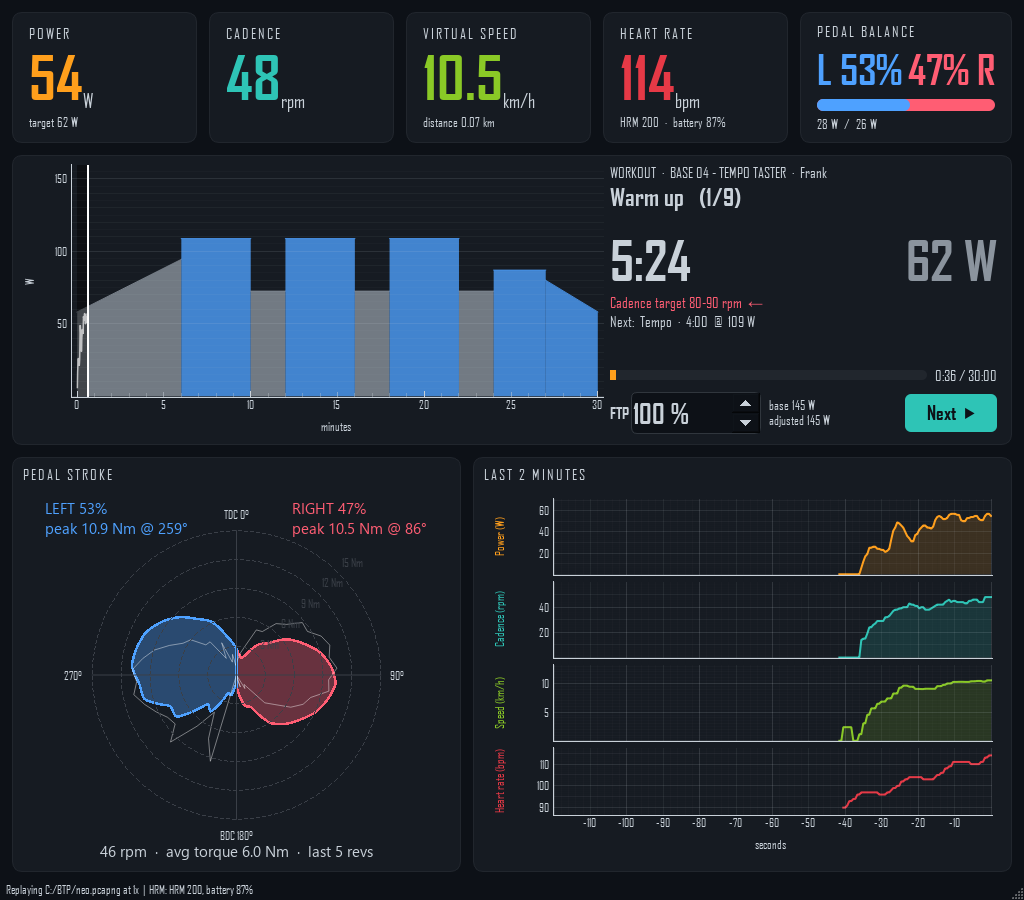
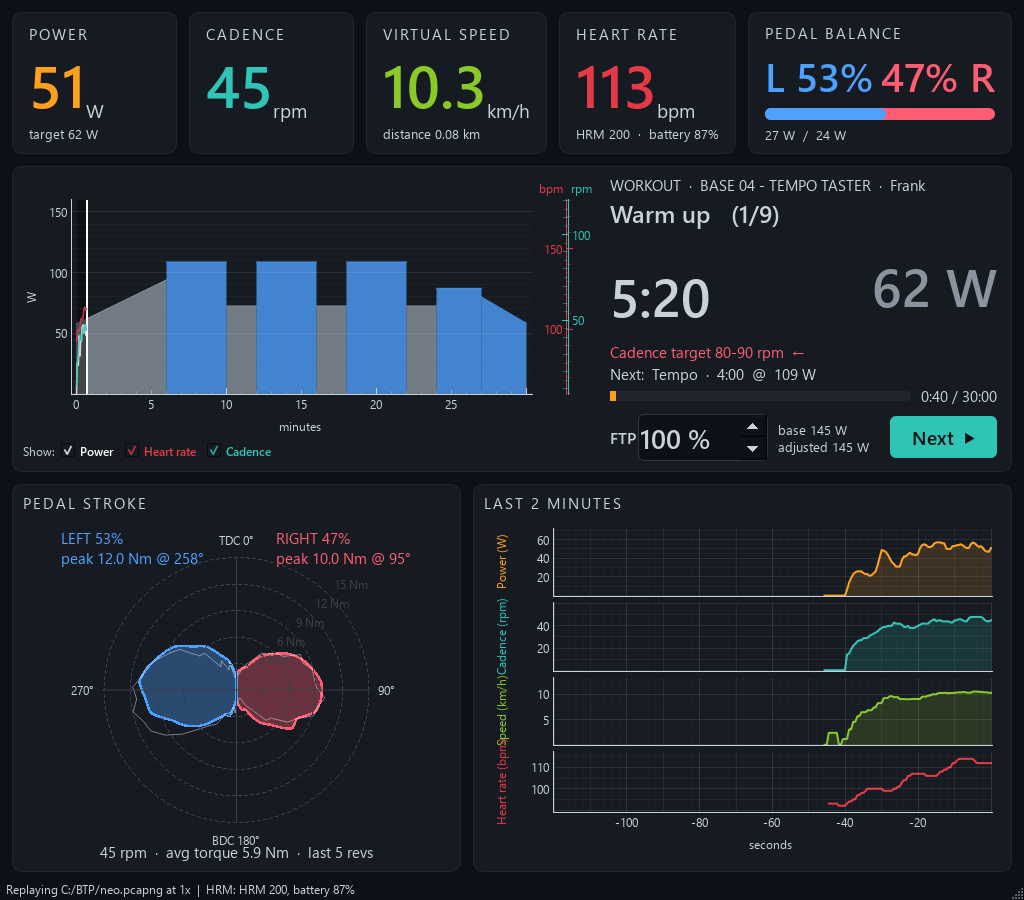
update scales.  update screenshot

diff --git a/tacx_dashboard.py b/tacx_dashboard.py
@@ -487,11 +487,12 @@ def zone_colour(watts: Optional[float], ftp: Optional[float]) -> str:
     return next(c for top, c in ZONES if pct < top)
 
 
-TRACES = {  # workout chart overlays: key -> (label, colour, trace column, axis)
-    "power": ("Power", "#ffffff", 1, "left"),
-    "hr": ("Heart rate", COL_HR, 3, "right"),
-    "cadence": ("Cadence", COL_CADENCE, 2, "right"),
+TRACES = {  # workout chart overlays: key -> (label, colour, trace column)
+    "power": ("Power", "#ffffff", 1),
+    "hr": ("Heart rate", COL_HR, 3),
+    "cadence": ("Cadence", COL_CADENCE, 2),
 }
+SCALES = {"hr": ("bpm", 60, 180), "cadence": ("rpm", 40, 120)}  # own axes: unit, default range
 PREFS_FILE = os.path.join(os.path.dirname(os.path.abspath(__file__)), ".cache", "dashboard.json")
 
 
@@ -533,45 +534,75 @@ class WorkoutProfile(pg.PlotWidget):
         self.marker.setZValue(30)
         self.addItem(self.marker)
 
-        # heart rate and cadence share a second view box with its own right-hand axis
+        # Heart rate and cadence each get their own view box and scale. Their axes sit in
+        # adjacent layout columns so the two axis lines meet: bpm labels on the left of the
+        # shared line (a "left" axis), rpm labels on the right of it (the "right" axis).
         pi = self.getPlotItem()
-        self.right_vb = pg.ViewBox(enableMouse=False)
-        self.right_vb.setZValue(25)
-        pi.showAxis("right")
-        pi.scene().addItem(self.right_vb)
-        pi.getAxis("right").linkToView(self.right_vb)
-        pi.getAxis("right").setLabel("bpm · rpm")
-        self.right_vb.setXLink(pi)
-        pi.vb.sigResized.connect(lambda: self.right_vb.setGeometry(pi.vb.sceneBoundingRect()))
+        rpm_axis = pi.getAxis("right")
+        pi.layout.removeItem(rpm_axis)
+        pi.layout.addItem(rpm_axis, 2, 3)   # row 2 is the plot row; column 2 takes bpm
+        bpm_axis = pg.AxisItem("left")
+        pi.layout.addItem(bpm_axis, 2, 2)
+        self.axes = {"hr": bpm_axis, "cadence": rpm_axis}
+        self.units = {}  # "bpm" / "rpm" written across the top of each scale
+        self.boxes = {"power": pi.vb}
+        for key, (unit, _lo, _hi) in SCALES.items():
+            vb = pg.ViewBox(enableMouse=False)
+            vb.setZValue(25)  # lines above the workout blocks
+            pi.scene().addItem(vb)
+            vb.setXLink(pi)
+            colour = TRACES[key][1]
+            ax = self.axes[key]
+            ax.linkToView(vb)
+            ax.setPen(pg.mkPen(colour))
+            ax.setTextPen(pg.mkPen(colour))
+            ax.setGrid(False)  # the grid belongs to the watts scale only
+            # unit label above the scale (row 1, over its axis), not rotated along it;
+            # bpm hugs the shared line from the left, rpm from the right
+            col = 2 if key == "hr" else 3
+            unit_lbl = pg.LabelItem(unit, color=colour, size="9pt", justify="right" if col == 2 else "left")
+            pi.layout.addItem(unit_lbl, 1, col)
+            self.units[key] = unit_lbl
+            # a fixed width that fits both the label and 3-digit ticks: if the label made
+            # one column wider than its axis, the two axis lines would no longer meet
+            digits = QtGui.QFontMetrics(QtWidgets.QApplication.font()).horizontalAdvance("000") + 18
+            ax.setWidth(int(max(digits, unit_lbl.preferredWidth() + 4)))
+            self.boxes[key] = vb
+        pi.vb.sigResized.connect(self._sync_boxes)
         self.curves = {}
-        for key, (_label, colour, _col, axis) in TRACES.items():
+        for key, (_label, colour, _col) in TRACES.items():
             c = QtGui.QColor(colour)
             c.setAlpha(200)
             curve = pg.PlotDataItem(pen=pg.mkPen(c, width=1.6), connect="finite")
             curve.setZValue(20)
-            (self.right_vb if axis == "right" else pi.vb).addItem(curve)
+            self.boxes[key].addItem(curve)
             self.curves[key] = curve
         self._data = []  # trace points copied from the player so far
         self.set_visible({"power": True, "hr": False, "cadence": False})
 
+    def _sync_boxes(self) -> None:
+        rect = self.getPlotItem().vb.sceneBoundingRect()
+        for key in SCALES:
+            self.boxes[key].setGeometry(rect)
+
     def set_visible(self, shown: dict) -> None:
         for key, curve in self.curves.items():
             curve.setVisible(bool(shown.get(key)))
-        right = any(shown.get(k) for k, v in TRACES.items() if v[3] == "right")
-        self.getPlotItem().getAxis("right").setVisible(right)
-        self._fit_right()
+        for key, axis in self.axes.items():
+            axis.setVisible(bool(shown.get(key)))
+            self.units[key].setVisible(bool(shown.get(key)))
+        self._fit_scales()
 
-    def _fit_right(self) -> None:
-        """Right axis range: covers the visible heart rate / cadence lines, at least 40-180."""
-        lo, hi = 40.0, 180.0
-        if self._data:
-            a = np.asarray(self._data, dtype=float)
-            for key, (_l, _c, col, axis) in TRACES.items():
-                if axis == "right" and self.curves[key].isVisible():
-                    vals = a[:, col][np.isfinite(a[:, col])]
-                    if len(vals):
-                        lo, hi = min(lo, vals.min() - 5), max(hi, vals.max() + 5)
-        self.right_vb.setYRange(lo, hi, padding=0)
+    def _fit_scales(self) -> None:
+        """Each of the HR and cadence scales covers its default range and its data (±5)."""
+        a = np.asarray(self._data, dtype=float) if self._data else None
+        for key, (_unit, lo, hi) in SCALES.items():
+            if a is not None:
+                col = TRACES[key][2]
+                vals = a[:, col][np.isfinite(a[:, col])]
+                if len(vals):
+                    lo, hi = min(lo, vals.min() - 5), max(hi, vals.max() + 5)
+            self.boxes[key].setYRange(max(0.0, lo), hi, padding=0)
 
     def _draw_blocks(self, ftp: Optional[float]) -> None:
         for b in self._blocks:
@@ -606,9 +637,9 @@ class WorkoutProfile(pg.PlotWidget):
         if snap["trace_len"] > len(self._data):  # new points: about once a second
             self._data += self.player.trace_since(len(self._data))
             a = np.asarray(self._data, dtype=float)  # None -> nan: gaps in the lines
-            for key, (_l, _c, col, _axis) in TRACES.items():
+            for key, (_l, _c, col) in TRACES.items():
                 self.curves[key].setData(a[:, 0] / 60, a[:, col])
-            self._fit_right()
+            self._fit_scales()
 
 
 class WorkoutPanel(QtWidgets.QFrame):
@@ -631,7 +662,7 @@ class WorkoutPanel(QtWidgets.QFrame):
         shown = {"power": True, "hr": False, "cadence": False, **self.prefs.get("workout_traces", {})}
         toggles = QtWidgets.QHBoxLayout()
         toggles.addWidget(QtWidgets.QLabel("Show:"))
-        for key, (label, colour, _col, _axis) in TRACES.items():
+        for key, (label, colour, _col) in TRACES.items():
             cb = QtWidgets.QCheckBox(label)
             cb.setChecked(shown[key])
             cb.setStyleSheet(f"QCheckBox {{ color:{colour}; font-weight:600; }}")
